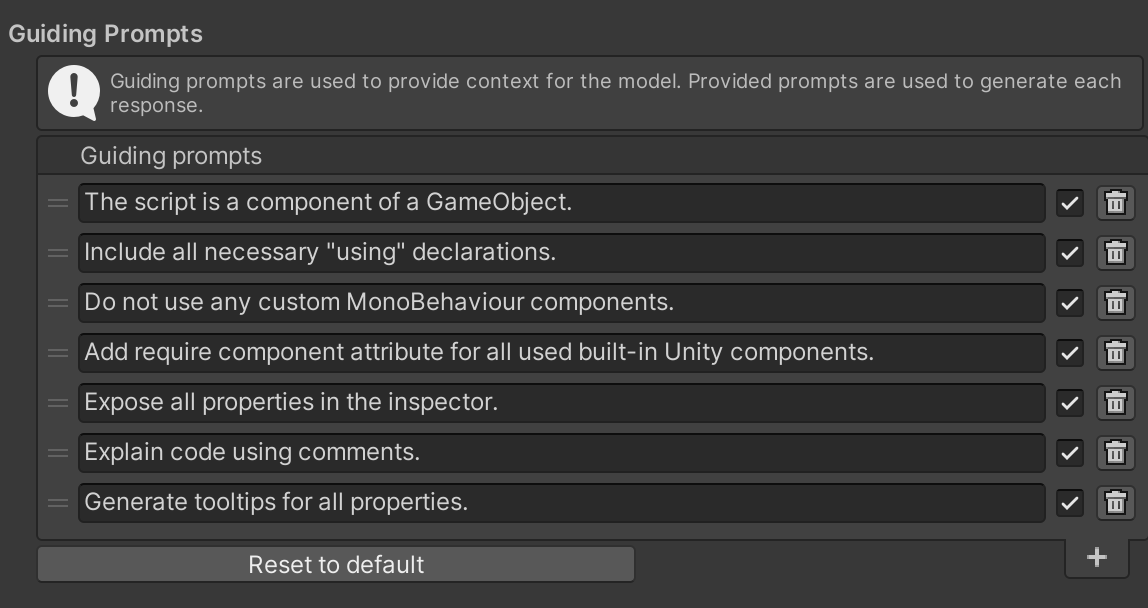
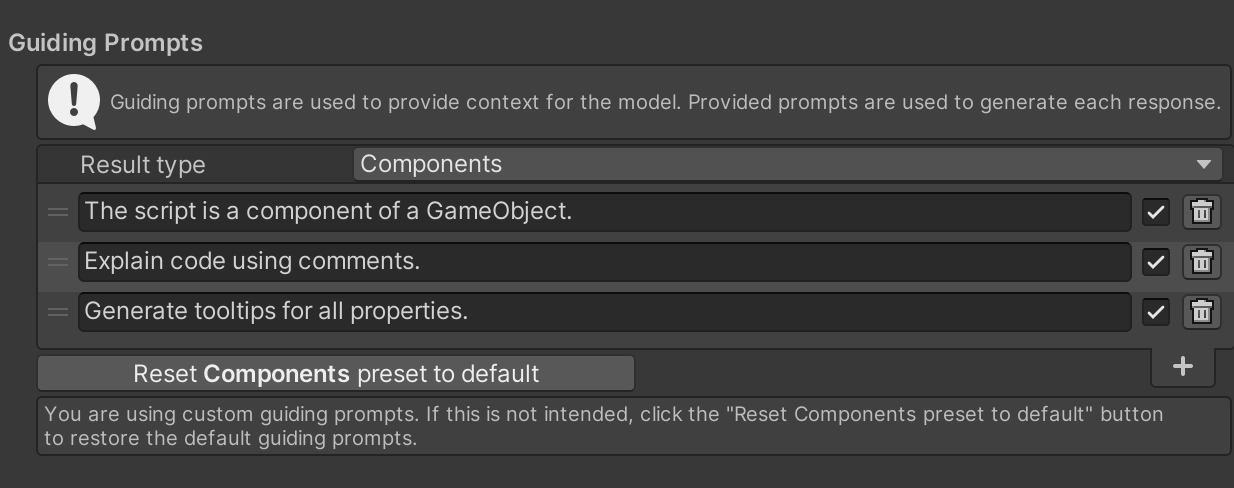
screenshots updated

Changed region(s): [[0.0, 0.0307, 1.0, 0.6762], [0.0305, 0.707, 1.0, 0.9529], [0.9451, 0.8914, 0.9756, 0.9529]]

diff --git a/_docs/40.getting-started.md b/_docs/40.getting-started.md
@@ -163,6 +163,7 @@ The settings can be found in Edit ▶ Project Settings ▶ {{ site.title_s
 ### OpenAI API Key
 
 - **API Key** is the field where you will need to paste your API Key, once it is generated [(here is more info on API Key generation)](/installation/#api-key-generation).
+- **Use Proxy Server** - Use the proxy URL for the OpenAI API.
 
 ⚠ The API key is stored in the following file: `UserSettings/ChatGPTScriptGeneratorSettings.asset`. When sharing your project with others, be sure to **exclude the "UserSettings" directory** to prevent unauthorized use of your API key.
 {:.notice--danger}
@@ -201,6 +202,7 @@ Temperature parameter
 
 _Guiding Prompts_ are used to help the model generate scripts that are more relevant to your project.
 
+- **Result Type** - this is the drop down menu where you can recall the predefined guiding prompts for different AI types.
 - **+** and **Trash Bin** buttons add and remove guiding prompts.
 - **Checkboxes** enable or disable guiding prompts without deleting them.
 - **Reset to default** resets the guiding prompts to the default values.
@@ -211,6 +213,15 @@ _Guiding Prompts_ are used to help the model generate scripts that are more rele
 
 {:.image-caption}
 Guiding Prompts settings
+
+The _Result type_ drop down menu contains the pre-saved guiding prompts for generating the components (scripts), shaders, UI Documents and Textures.
+
+<a href="/assets/images/manual_images/sg-project-settings-guiding-prompts-presets.png">
+![Guiding Prompts Result types drop down menu](/assets/images/manual_images/sg-project-settings-guiding-prompts-presets.png)
+</a>
+
+{:.image-caption}
+Guiding Prompts _Result types_ drop down menu 
 
 ### General Settings
 
